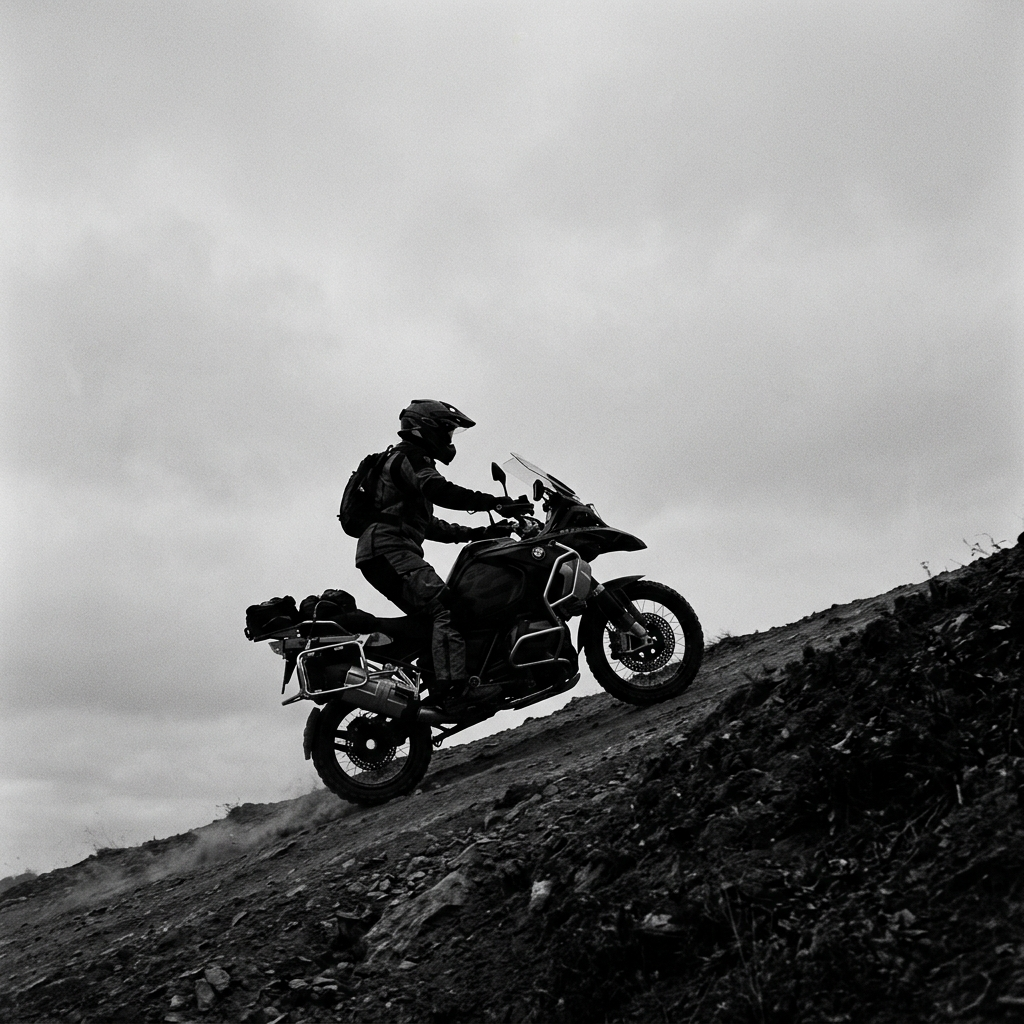
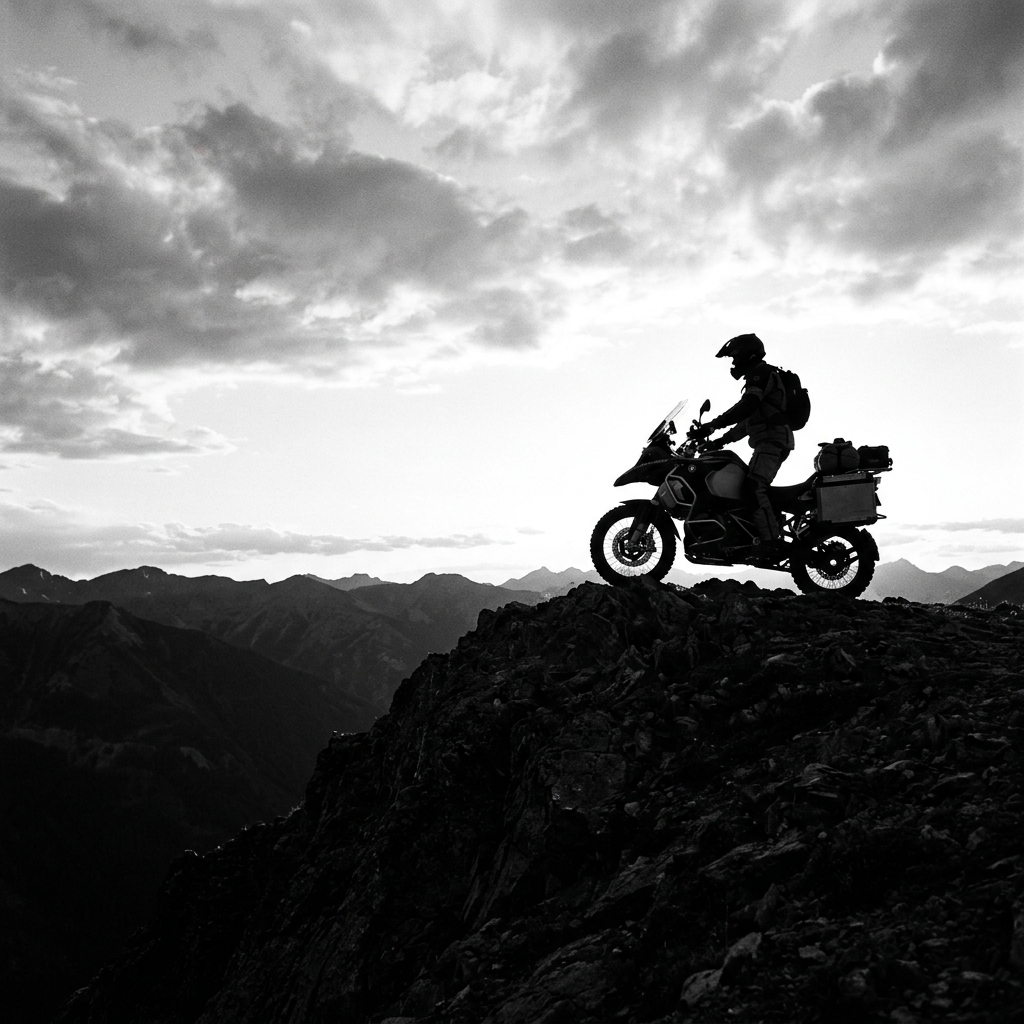
update

diff --git a/frontend/src/context/LanguageContext.jsx b/frontend/src/context/LanguageContext.jsx
@@ -159,6 +159,39 @@ const translations = {
     techLedHeadlight: "एलईडी हेडलाइट (LED)",
     techAbs: "एंटी-लॉक ब्रेकिंग सिस्टम (ABS)",
     techBluetooth: "ब्लूटूथ और स्मार्ट नेविगेशन"
+  },
+  kn: {
+    home: "ಮುಖಪುಟ", bikes: "ಬೈಕುಗಳು", compare: "ಹೋಲಿಸಿ", about: "ಬಗ್ಗೆ", contact: "ಸಂಪರ್ಕ", dashboard: "ಡ್ಯಾಶ್ಬೋರ್ಡ್", logout: "ಲಾಗೌಟ್", login: "ಲಾಗಿನ್", signup: "ಸೈನ್ ಅಪ್", searchPlaceholder: "ಬೈಕ್ ಹುಡುಕಿ...",
+    heroTitle: "ನಿಮ್ಮ", heroTitlePerfect: "ಪರಿಪೂರ್ಣ ಬೈಕ್", heroTitleSub: "ಹೋಲಿಸಿ. ನಿರ್ಧರಿಸಿ. ಸವಾರಿ ಮಾಡಿ.", heroSubtitle: "ಎಂಜಿನ್, ಮೈಲೇಜ್, ಮತ್ತು ವಿಮರ್ಶೆಗಳು - ನಿಮ್ಮ ಮುಂದಿನ ಬೈಕ್ ಆಯ್ಕೆ ಮಾಡಲು ಬೇಕಾದ ಎಲ್ಲವೂ.", searchPrompt: "ನಿಮ್ಮ ಬೈಕ್ ಹುಡುಕಿ, ಉದಾ. Bajaj Pulsar", searchBtn: "ಹುಡುಕಿ",
+    featuredHeader: "ವೈಶಿಷ್ಟ್ಯಪೂರ್ಣ ಬೈಕುಗಳು", tabTrending: "ಟ್ರೆಂಡಿಂಗ್", tabPopular: "ಜನಪ್ರಿಯ", tabElectric: "ಎಲೆಕ್ಟ್ರಿಕ್", tabUpcoming: "ಮುಂಬರುವ",
+    viewAllBikes: "ಎಲ್ಲಾ ಬೈಕುಗಳು >", viewAllTrending: "ಎಲ್ಲಾ ಟ್ರೆಂಡಿಂಗ್ >", viewAllPopular: "ಎಲ್ಲಾ ಜನಪ್ರಿಯ >", viewAllElectric: "ಎಲ್ಲಾ ಎಲೆಕ್ಟ್ರಿಕ್ >", viewAllUpcoming: "ಎಲ್ಲಾ ಮುಂಬರುವ >",
+    onwards: "ನಂತರ", exShowroom: "ಎಕ್ಸ್ ಶೋ ರೂಂ ಬೆಲೆ", checkOnRoadPrice: "ಆನ್-ರೋಡ್ ಬೆಲೆ ಪರಿಶೀಲಿಸಿ", featuredBadge: "ವೈಶಿಷ್ಟ್ಯಪೂರ್ಣ",
+    selectCity: "ನಗರ ಆಯ್ಕೆಮಾಡಿ", pincodePlaceholder: "ಪಿನ್ ಕೋಡ್ ಅಥವಾ ನಗರ ಟೈಪ್ ಮಾಡಿ", detectLocation: "ಸ್ಥಳ ಪತ್ತೆಹಚ್ಚಿ", popularCities: "ಜನಪ್ರಿಯ ನಗರಗಳು", detecting: "ಪತ್ತೆಹಚ್ಚಲಾಗುತ್ತಿದೆ...", gpsError: "ಸ್ಥಳ ಪತ್ತೆಹಚ್ಚಲಾಗಲಿಲ್ಲ.", locationGranted: "ಸ್ಥಳ ಪತ್ತೆಯಾಗಿದೆ!",
+    similarBrands: "ಹೋಲುವ ಬ್ರಾಂಡ್ಗಳು", viewBrandBikes: "ಎಲ್ಲಾ ಮಾದರಿಗಳನ್ನು ವೀಕ್ಷಿಸಿ",
+    userReviewsTitle: "ಬಳಕೆದಾರರ ವಿಮರ್ಶೆಗಳು", userReviewsSubtitle: "ಬೈಕ್ ಮಾಲೀಕರಿಂದ 3000+ ನೈಜ ವಿಮರ್ಶೆಗಳು.", userReviewsSearch: "ಬೈಕ್ ಹುಡುಕಿ", recentlyAddedReviews: "ಇತ್ತೀಚಿನ ವಿಮರ್ಶೆಗಳು", reviewOn: "ವಿಮರ್ಶೆ",
+    keyHighlights: "ಮುಖ್ಯಾಂಶಗಳು", engineCapacity: "ಎಂಜಿನ್ ಸಾಮರ್ಥ್ಯ", mileageArai: "ಮೈಲೇಜ್", transmission: "ಗೇರ್", kerbWeight: "ತೂಕ", fuelTankCapacity: "ಇಂಧನ ಟ್ಯಾಂಕ್", seatHeight: "ಸೀಟ್ ಎತ್ತರ", exploreOther: "ಇತರೆ ಅನ್ವೇಷಿಸಿ", moreModelsStarting: "ಹೆಚ್ಚು ಮಾದರಿಗಳು", viewAll: "ಎಲ್ಲವನ್ನೂ ವೀಕ್ಷಿಸಿ", viewAllSpecs: "ಎಲ್ಲಾ ವೈಶಿಷ್ಟ್ಯಗಳನ್ನು ವೀಕ್ಷಿಸಿ"
+  },
+  te: {
+    home: "హోమ్", bikes: "బైక్స్", compare: "పోల్చండి", about: "గురించి", contact: "సంప్రదించండి", dashboard: "డాష్బోర్డ్", logout: "లాగౌట్", login: "లాగిన్", signup: "సైన్ అప్", searchPlaceholder: "బైక్ వెతకండి...",
+    heroTitle: "మీ", heroTitlePerfect: "ఖచ్చితమైన బైక్", heroTitleSub: "పోల్చండి. నిర్ణయించండి. రైడ్ చేయండి.", heroSubtitle: "ఇంజిన్, మైలేజ్, మరియు సమీక్షలు - తదుపరి బైక్ ఎంచుకోవడానికి కావలసినవి.", searchPrompt: "మీ బైక్ వెతకండి, ఉదా. Bajaj Pulsar", searchBtn: "వెతకండి",
+    featuredHeader: "ఫీచర్ చేయబడిన బైక్స్", tabTrending: "ట్రెండింగ్", tabPopular: "పాపులర్", tabElectric: "ఎలక్ట్రిక్", tabUpcoming: "రాబోయేవి",
+    viewAllBikes: "అన్ని బైక్స్ >", viewAllTrending: "అన్ని ట్రెండింగ్ >", viewAllPopular: "అన్ని పాపులర్ >", viewAllElectric: "అన్ని ఎలక్ట్రిక్ >", viewAllUpcoming: "అన్ని రాబోయేవి >",
+    onwards: "తరువాత", exShowroom: "ఎక్స్-షోరూమ్ ధర", checkOnRoadPrice: "ఆన్-రోడ్ ధర తనిఖీ చేయండి", featuredBadge: "ఫీచర్డ్",
+    selectCity: "నగరాన్ని ఎంచుకోండి", pincodePlaceholder: "పిన్కోడ్ లేదా నగరాన్ని టైప్ చేయండి", detectLocation: "స్థానాన్ని గుర్తించండి", popularCities: "పాపులర్ నగరాలు", detecting: "గుర్తిస్తోంది...", gpsError: "స్థానాన్ని గుర్తించలేకపోయాము.", locationGranted: "స్థానం గుర్తించబడింది!",
+    similarBrands: "సారూప్య బ్రాండ్లు", viewBrandBikes: "అన్ని మోడళ్లను చూడండి",
+    userReviewsTitle: "వినియోగదారు సమీక్షలు", userReviewsSubtitle: "బైక్ యజమానుల నుండి 3000+ నిజమైన సమీక్షలు.", userReviewsSearch: "బైక్ వెతకండి", recentlyAddedReviews: "ఇటీవల చేర్చిన సమీక్షలు", reviewOn: "సమీక్ష",
+    keyHighlights: "ముఖ్యాంశాలు", engineCapacity: "ఇంజిన్ సామర్థ్యం", mileageArai: "మైలేజ్", transmission: "గేర్", kerbWeight: "బరువు", fuelTankCapacity: "ఇంధన ట్యాంక్", seatHeight: "సీటు ఎత్తు", exploreOther: "ఇతర అన్వేషించండి", moreModelsStarting: "మరిన్ని మోడళ్లు", viewAll: "అన్నీ చూడండి", viewAllSpecs: "అన్ని వివరాలు చూడండి"
+  },
+  ta: {
+    home: "முகப்பு", bikes: "பைக்குகள்", compare: "ஒப்பிடுக", about: "பற்றி", contact: "தொடர்பு", dashboard: "டாஷ்போர்டு", logout: "வெளியேறு", login: "உள்நுழை", signup: "பதிவு செய்", searchPlaceholder: "பைக் தேடுக...",
+    heroTitle: "உங்கள்", heroTitlePerfect: "சிறந்த பைக்", heroTitleSub: "ஒப்பிடு. முடிவெடு. ஓட்டு.", heroSubtitle: "என்ஜின், மைலேஜ் மற்றும் மதிப்புரைகள் - சிறந்த பைக்கை தேர்வு செய்ய தேவையான அனைத்தும்.", searchPrompt: "உங்கள் பைக்கை தேடுக, எ.கா. Bajaj Pulsar", searchBtn: "தேடுக",
+    featuredHeader: "சிறப்பு பைக்குகள்", tabTrending: "பிரபலமானவை", tabPopular: "பிரபலம்", tabElectric: "மின்சாரம்", tabUpcoming: "வரவிருப்பவை",
+    viewAllBikes: "அனைத்து பைக்குகள் >", viewAllTrending: "அனைத்து பிரபலமானவை >", viewAllPopular: "அனைத்து பிரபலம் >", viewAllElectric: "அனைத்து மின்சாரம் >", viewAllUpcoming: "அனைத்து வரவிருப்பவை >",
+    onwards: "முதல்", exShowroom: "எக்ஸ்-ஷோரூம் விலை", checkOnRoadPrice: "ஆன்-ரோடு விலை சரிபார்க்கவும்", featuredBadge: "சிறப்பு",
+    selectCity: "நகரத்தை தேர்ந்தெடுக்கவும்", pincodePlaceholder: "பின்கோடு அல்லது நகரம்", detectLocation: "இருப்பிடத்தை கண்டுபிடி", popularCities: "பிரபல நகரங்கள்", detecting: "கண்டுபிடிக்கிறது...", gpsError: "இருப்பிடத்தை கண்டுபிடிக்க முடியவில்லை.", locationGranted: "இருப்பிடம் கண்டறியப்பட்டது!",
+    similarBrands: "ஒத்த பிராண்டுகள்", viewBrandBikes: "அனைத்து மாடல்களையும் காண்க",
+    userReviewsTitle: "பயனர் மதிப்புரைகள்", userReviewsSubtitle: "பைக் உரிமையாளர்களிடமிருந்து 3000+ உண்மையான மதிப்புரைகள்.", userReviewsSearch: "பைக் தேடுக", recentlyAddedReviews: "சமீபத்திய மதிப்புரைகள்", reviewOn: "மதிப்புரை",
+    keyHighlights: "முக்கிய சிறப்பம்சங்கள்", engineCapacity: "என்ஜின் திறன்", mileageArai: "மைலேஜ்", transmission: "கியர்", kerbWeight: "எடை", fuelTankCapacity: "எரிபொருள் தொட்டி", seatHeight: "இருக்கை உயரம்", exploreOther: "மற்றவை தேடுக", moreModelsStarting: "மேலும் மாடல்கள்", viewAll: "அனைத்தையும் காண்க", viewAllSpecs: "அனைத்து விவரங்களையும் காண்க"
   }
 };
 
@@ -175,12 +208,12 @@ export function LanguageProvider({ children }) {
     return translations[lang]?.[key] || translations['en']?.[key] || key;
   };
 
-  const toggleLanguage = () => {
-    setLang(prev => prev === 'en' ? 'hi' : 'en');
+  const changeLanguage = (code) => {
+    if (translations[code]) setLang(code);
   };
 
   return (
-    <LanguageCtx.Provider value={{ lang, setLang, t, toggleLanguage }}>
+    <LanguageCtx.Provider value={{ lang, setLang, t, changeLanguage }}>
       {children}
     </LanguageCtx.Provider>
   );

diff --git a/frontend/src/components/Navbar.jsx b/frontend/src/components/Navbar.jsx
@@ -10,7 +10,7 @@ import LocationModal from './LocationModal.jsx';
 export default function Navbar() {
   const { user, logout } = useAuth();
   const { theme, toggle } = useTheme();
-  const { lang, toggleLanguage, t } = useLanguage();
+  const { lang, changeLanguage, t } = useLanguage();
   const { activeCity } = useLocation();
   const nav = useNavigate();
   const [searchQuery, setSearchQuery] = useState('');
@@ -67,15 +67,22 @@ export default function Navbar() {
             <span className="font-semibold text-slate-200 truncate">{activeCity}</span>
           </button>
 
-          {/* Language selector toggle - hidden on extra small screens */}
-          <button
-            onClick={toggleLanguage}
-            className="btn btn-ghost text-xs hidden sm:flex items-center gap-1.5 px-3 py-1.5 border border-white/5 hover:border-white/10 rounded-lg cursor-pointer shrink-0"
-            title="Toggle Language / भाषा बदलें"
-          >
+          {/* Language selector dropdown - hidden on extra small screens */}
+          <div className="hidden sm:flex items-center gap-1.5 px-3 py-1.5 border border-white/5 hover:border-white/10 rounded-lg cursor-pointer shrink-0 bg-transparent">
             <Globe size={14} className="text-neon" />
-            <span className="font-bold uppercase tracking-wider text-slate-200">{lang === 'en' ? 'HI' : 'EN'}</span>
-          </button>
+            <select
+              value={lang}
+              onChange={(e) => changeLanguage(e.target.value)}
+              className="bg-transparent text-slate-200 font-bold uppercase tracking-wider text-xs outline-none cursor-pointer appearance-none"
+              title="Select Language / भाषा चुनें"
+            >
+              <option value="en" className="text-black">EN</option>
+              <option value="hi" className="text-black">HI</option>
+              <option value="kn" className="text-black">KN</option>
+              <option value="te" className="text-black">TE</option>
+              <option value="ta" className="text-black">TA</option>
+            </select>
+          </div>
 
           <button onClick={toggle} className="btn btn-ghost p-1.5 sm:p-2 text-slate-300 hover:text-white shrink-0" aria-label="Toggle theme">
             {theme==='dark'?<Sun size={14} className="sm:w-4 sm:h-4"/>:<Moon size={14} className="sm:w-4 sm:h-4"/>}

diff --git a/frontend/src/pages/Compare.jsx b/frontend/src/pages/Compare.jsx
@@ -42,11 +42,16 @@ export default function Compare() {
               <tr>
                 <th className="text-left p-4">Spec</th>
                 {data.map(b => (
-                  <th key={b.id} className="p-4 text-left">
-                    <div className="flex items-center justify-between gap-2">
-                      <span>{b.brand} {b.model}</span>
-                      <button onClick={()=>remove(b.id)}><X size={14} className="text-slate-400 hover:text-white"/></button>
+                  <th key={b.id} className="p-4 text-left align-top min-w-[200px]">
+                    <div className="flex items-start justify-between gap-2 mb-3">
+                      <span className="font-bold text-lg">{b.brand} {b.model}</span>
+                      <button onClick={()=>remove(b.id)} className="p-1 hover:bg-white/10 rounded"><X size={16} className="text-slate-400 hover:text-white"/></button>
                     </div>
+                    {b.image ? (
+                      <img src={b.image} alt={b.model} className="w-full h-32 object-contain mix-blend-screen bg-black/20 rounded-lg p-2" />
+                    ) : (
+                      <div className="w-full h-32 flex items-center justify-center bg-white/5 rounded-lg text-slate-500">No Image</div>
+                    )}
                   </th>
                 ))}
               </tr>

diff --git a/frontend/src/components/SimilarBrands.jsx b/frontend/src/components/SimilarBrands.jsx
@@ -81,16 +81,16 @@ export default function SimilarBrands() {
   const visibleBrands = showAll ? BRANDS_DATA : BRANDS_DATA.slice(0, 10);
 
   return (
-    <section className="bg-[#111] rounded-2xl p-6 mt-10">
+    <section className="glass p-6 mt-10">
       <h2 className="text-white text-xl font-bold mb-6">Popular Brands</h2>
 
-      <div className="border border-[#2a2a2a] rounded-xl overflow-hidden bg-[#161616]">
-        <div className="grid grid-cols-2 sm:grid-cols-3 md:grid-cols-4 lg:grid-cols-5 border-b border-[#2a2a2a]">
+      <div className="border border-white/10 rounded-xl overflow-hidden bg-white/5">
+        <div className="grid grid-cols-2 sm:grid-cols-3 md:grid-cols-4 lg:grid-cols-5 border-b border-white/10">
           {visibleBrands.map((brand, i) => (
             <Link
               key={brand.name}
               to={`/search?q=${encodeURIComponent(brand.name)}`}
-              className="group border-r border-b border-[#2a2a2a] last:border-r-0 lg:nth-child(5n):border-r-0 p-6 flex flex-col items-center justify-center hover:bg-[#1f1f1f] transition-colors duration-200"
+              className="group border-r border-b border-white/10 last:border-r-0 lg:nth-child(5n):border-r-0 p-6 flex flex-col items-center justify-center hover:bg-white/5 transition-colors duration-200"
               style={{ textDecoration: 'none', borderBottom: (i >= visibleBrands.length - (visibleBrands.length % 5 || 5)) ? 'none' : '' }}
             >
               <motion.div
@@ -123,8 +123,8 @@ export default function SimilarBrands() {
         </div>
         
         {/* View More Brands Button inside the frame matching the user screenshot */}
-        <div className="flex items-center justify-center p-4 hover:bg-[#1f1f1f] transition-colors cursor-pointer" onClick={() => setShowAll(!showAll)}>
-          <span className="text-[#3b82f6] font-medium text-[15px] hover:underline">
+        <div className="flex items-center justify-center p-4 hover:bg-white/5 transition-colors cursor-pointer border-t border-white/5" onClick={() => setShowAll(!showAll)}>
+          <span className="text-neon font-medium text-[15px] hover:underline">
             {showAll ? 'View Less Brands' : 'View More Brands'}
           </span>
         </div>

diff --git a/frontend/src/index.css b/frontend/src/index.css
@@ -3,12 +3,12 @@
 @tailwind utilities;
 
 :root { color-scheme: dark; }
-html, body, #root { height: 100%; }
+html, body, #root { min-height: 100vh; }
 body {
-  @apply font-body bg-slate-900 text-slate-100 antialiased;
+  @apply font-body bg-ink-900 text-slate-100 antialiased;
   background-image:
-    radial-gradient(800px 400px at 10% -10%, rgba(148, 163, 184, 0.12), transparent 60%),
-    radial-gradient(600px 300px at 90% 0%, rgba(100, 116, 139, 0.08), transparent 60%);
+    radial-gradient(800px 400px at 10% -10%, rgba(0, 229, 255, 0.1), transparent 60%),
+    radial-gradient(600px 300px at 90% 0%, rgba(255, 255, 255, 0.05), transparent 60%);
 }
 .light body { @apply bg-slate-50 text-slate-900; }
 

diff --git a/frontend/tailwind.config.js b/frontend/tailwind.config.js
@@ -5,15 +5,15 @@ export default {
   theme: {
     extend: {
       colors: {
-        neon: { DEFAULT: '#00f0a8', glow: '#22ffd1' },
-        ink:  { 900: '#0a0d12', 800: '#10151c', 700: '#171d27' },
+        neon: { DEFAULT: '#00E5FF', glow: '#66FFFF' },
+        ink:  { 900: '#030712', 800: '#111827', 700: '#1F2937' },
       },
       fontFamily: {
         display: ['"Space Grotesk"', 'system-ui'],
         body: ['Inter', 'system-ui'],
       },
       boxShadow: {
-        glow: '0 0 30px rgba(0,240,168,0.35)',
+        glow: '0 0 30px rgba(0,229,255,0.4)',
       },
     },
   },